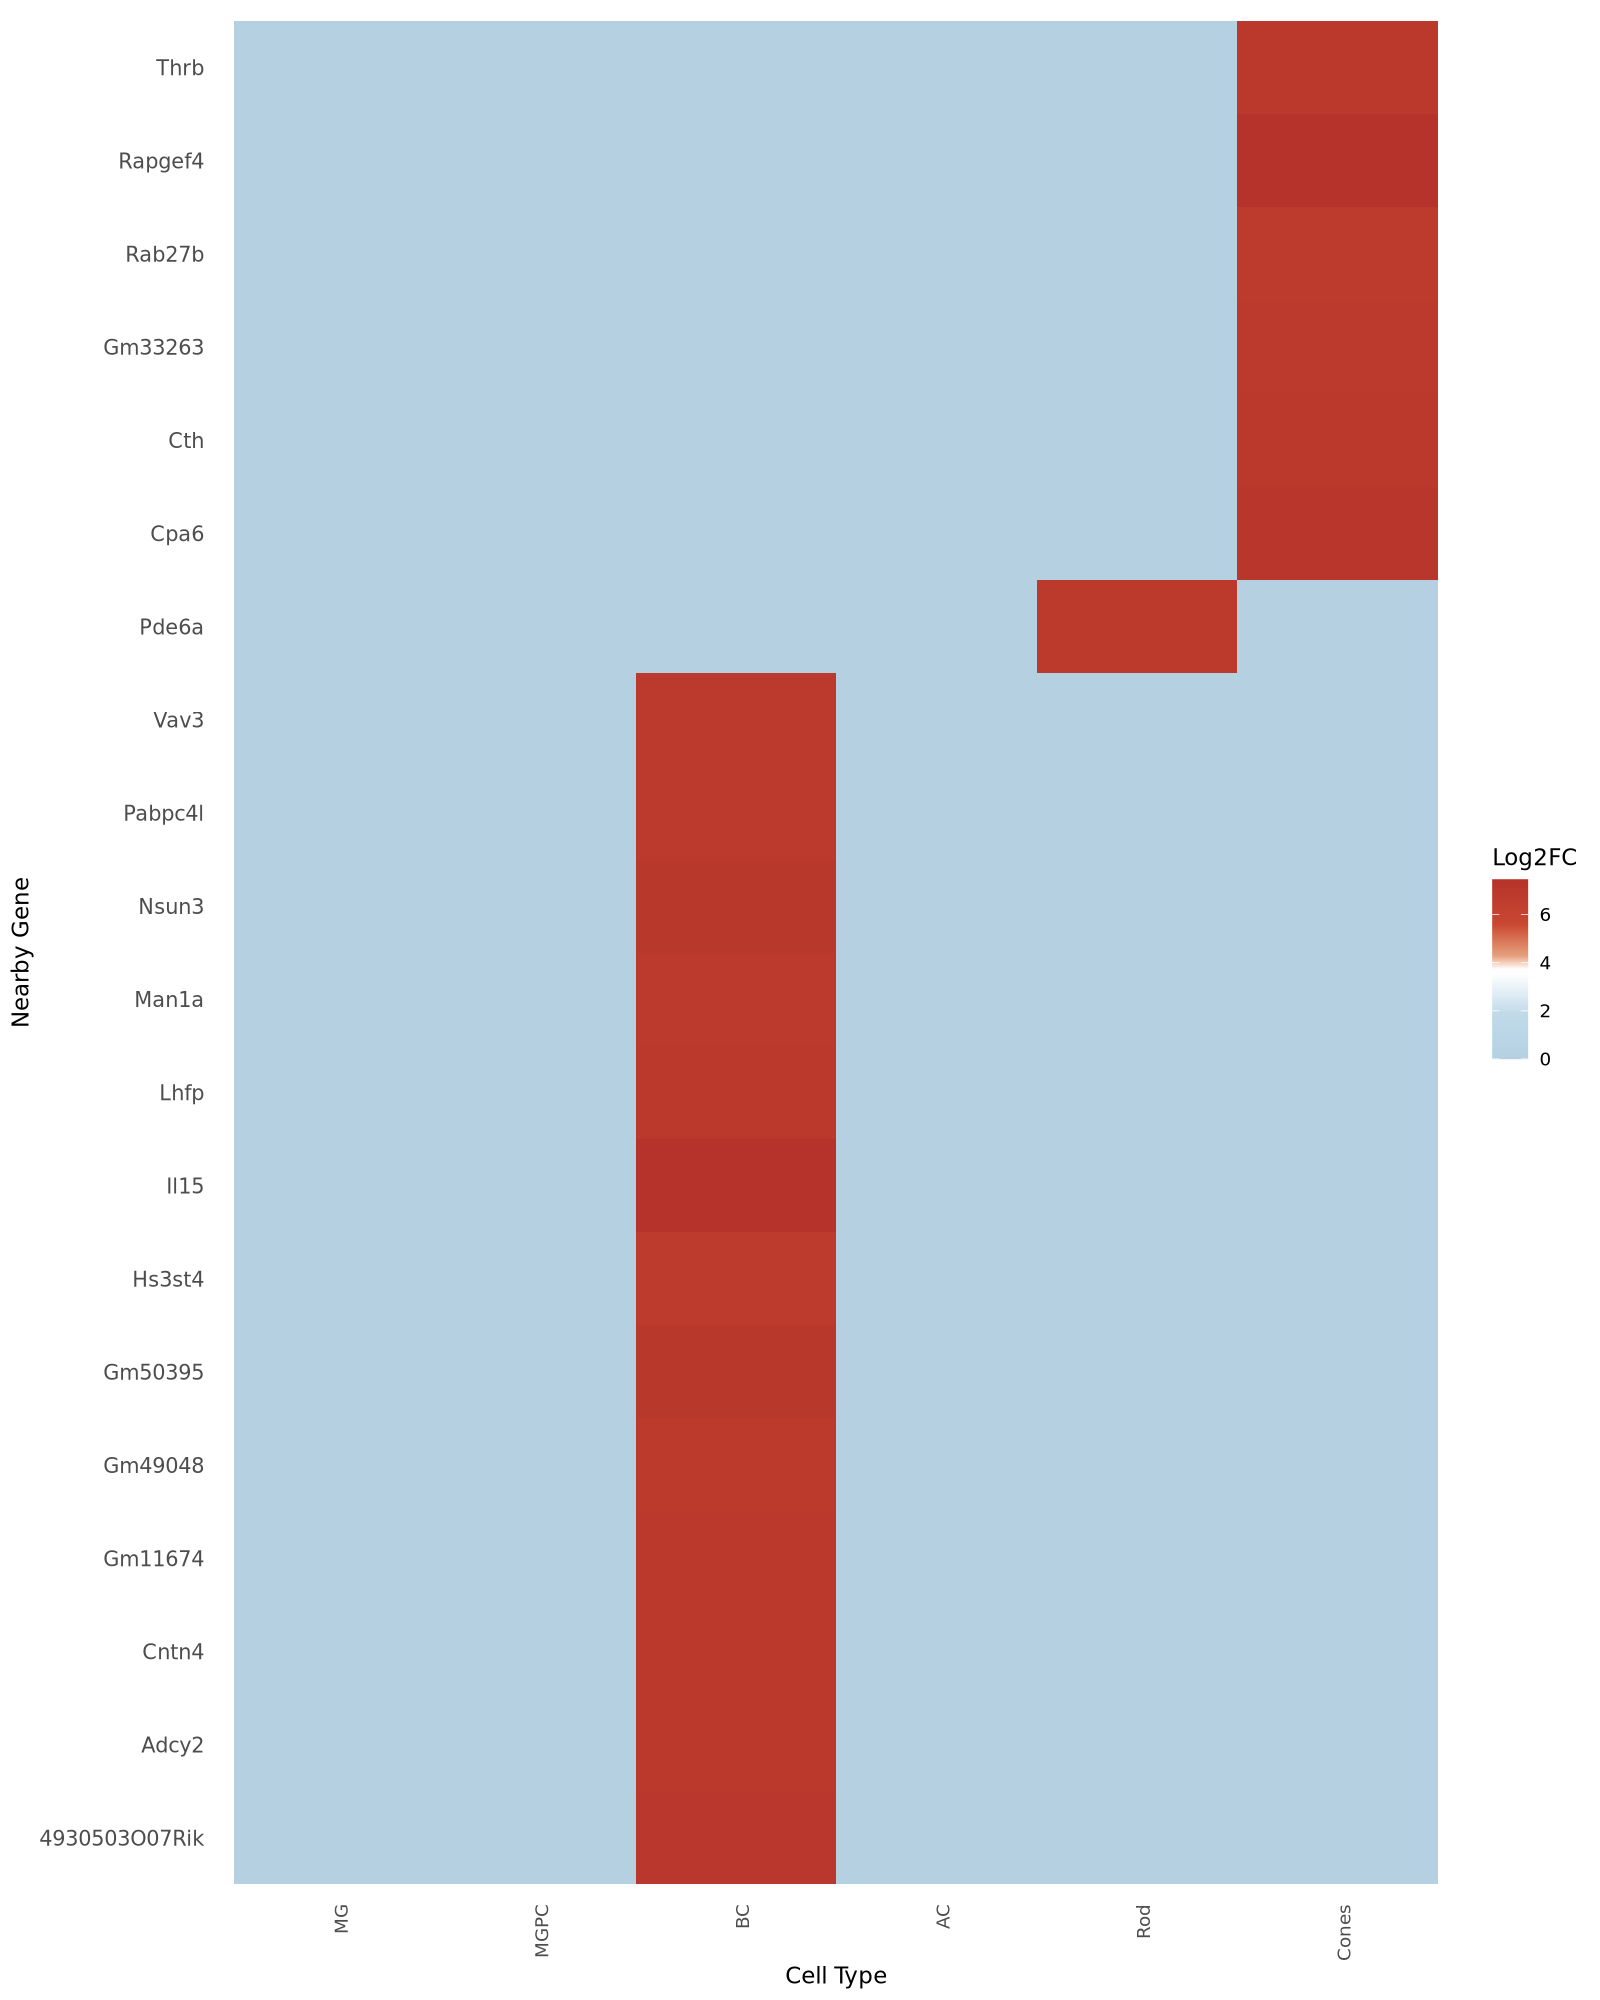
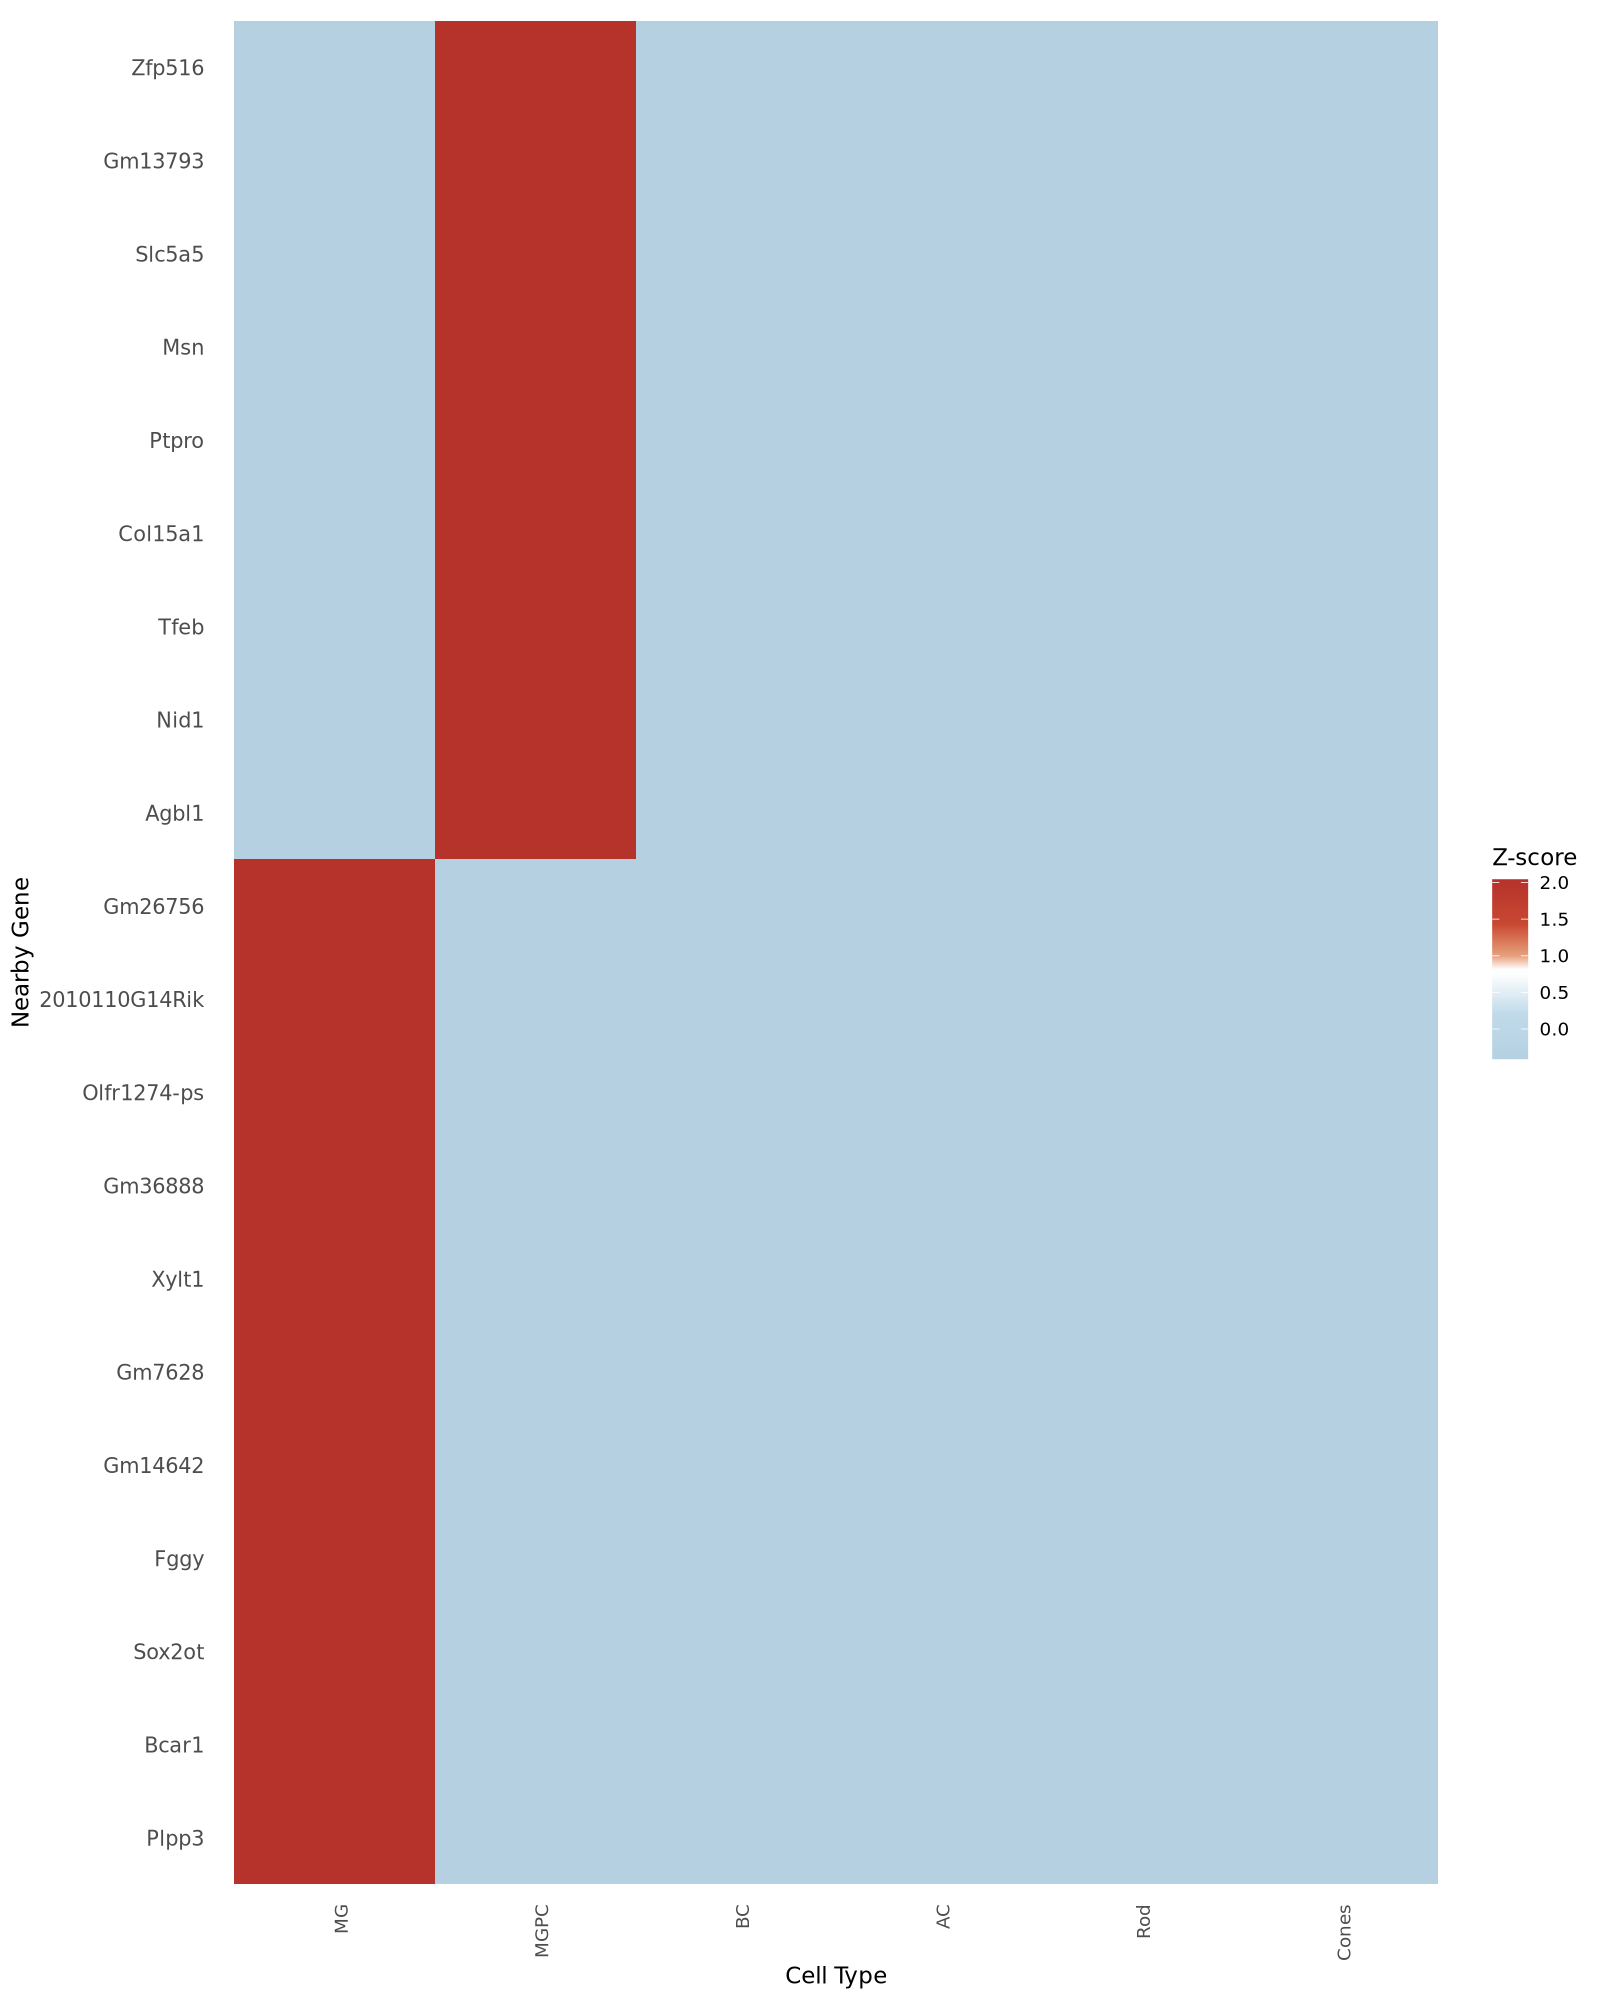
Update DiffpeaksHeatmap to use zscore

diff --git a/README.md b/README.md
@@ -148,7 +148,7 @@ myObject.atac.markers <- FindAllMarkers(
 )
 ``` 
 
-![](figures/cNeurog2_DiffpeaksHeatmap.png?v=1)
+![](figures/cNeurog2_DiffpeaksHeatmap.png?v=2) 
 
 #  Subset MG/MGPC 
 
